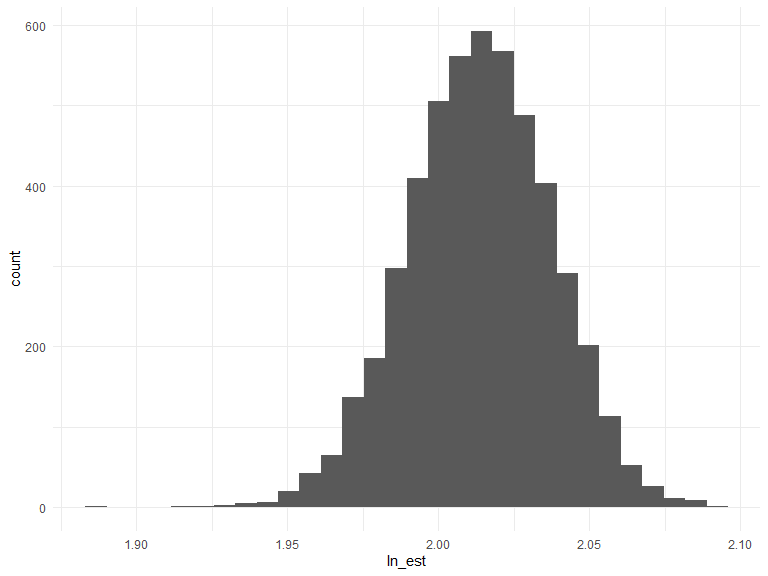
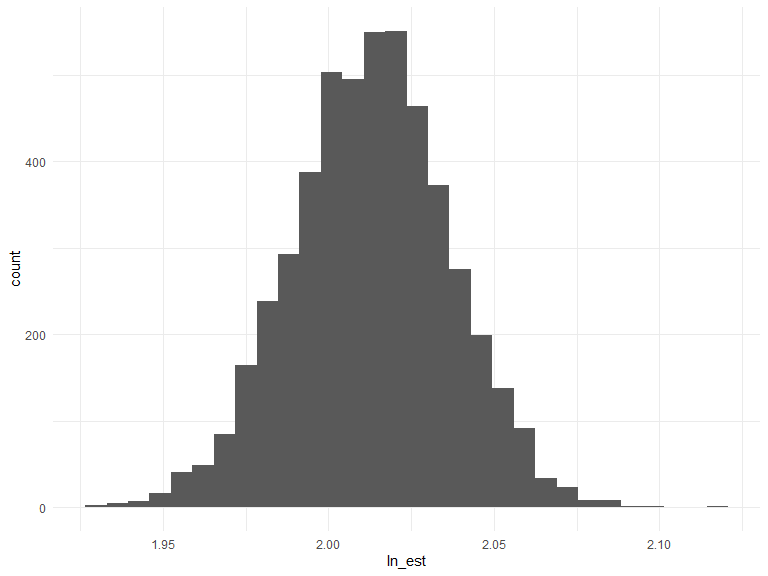
Computed 95% CIs for the estimates

diff --git a/p8105_hw6_jt3175.md b/p8105_hw6_jt3175.md
@@ -201,9 +201,9 @@ weather_df =
 We’ll focus on a simple linear regression with tmax as the response and
 tmin as the predictor.
 
-Use 5000 bootstrap samples and, for each bootstrap sample, produce
-estimates of
-\[ \hat{r}^2\ \text{and}\ log(\hat{{\beta}_0} * \hat{{\beta}_1}) \]
+We will use 5000 bootstrap samples and, for each bootstrap sample,
+produce estimates of
+\[ \hat{r}^2\ \text{and}\ log(\hat{{\beta}_0} * \hat{{\beta}_1}) \].
 
 ``` r
 bootstrap = 
@@ -255,3 +255,19 @@ ggplot(output, aes(x = ln_est))+
 
 Using the 5000 bootstrap estimates, identify the 2.5% and 97.5%
 quantiles to provide a 95% confidence interval
+
+``` r
+conf_int = output %>% 
+  summarize(
+    lower_rsq = quantile(adj_r_squared, .025),
+    upper_rsq = quantile(adj_r_squared, .975),
+    lower_ln = quantile(ln_est, .025),
+    upper_ln = quantile(ln_est, .975)
+  ) %>% 
+  pivot_longer(
+    cols = lower_rsq:upper_ln,
+    names_to = "description",
+    values_to = c("lower", "upper"),
+    names_prefix = c("lower_", "upper_")
+  )
+```
